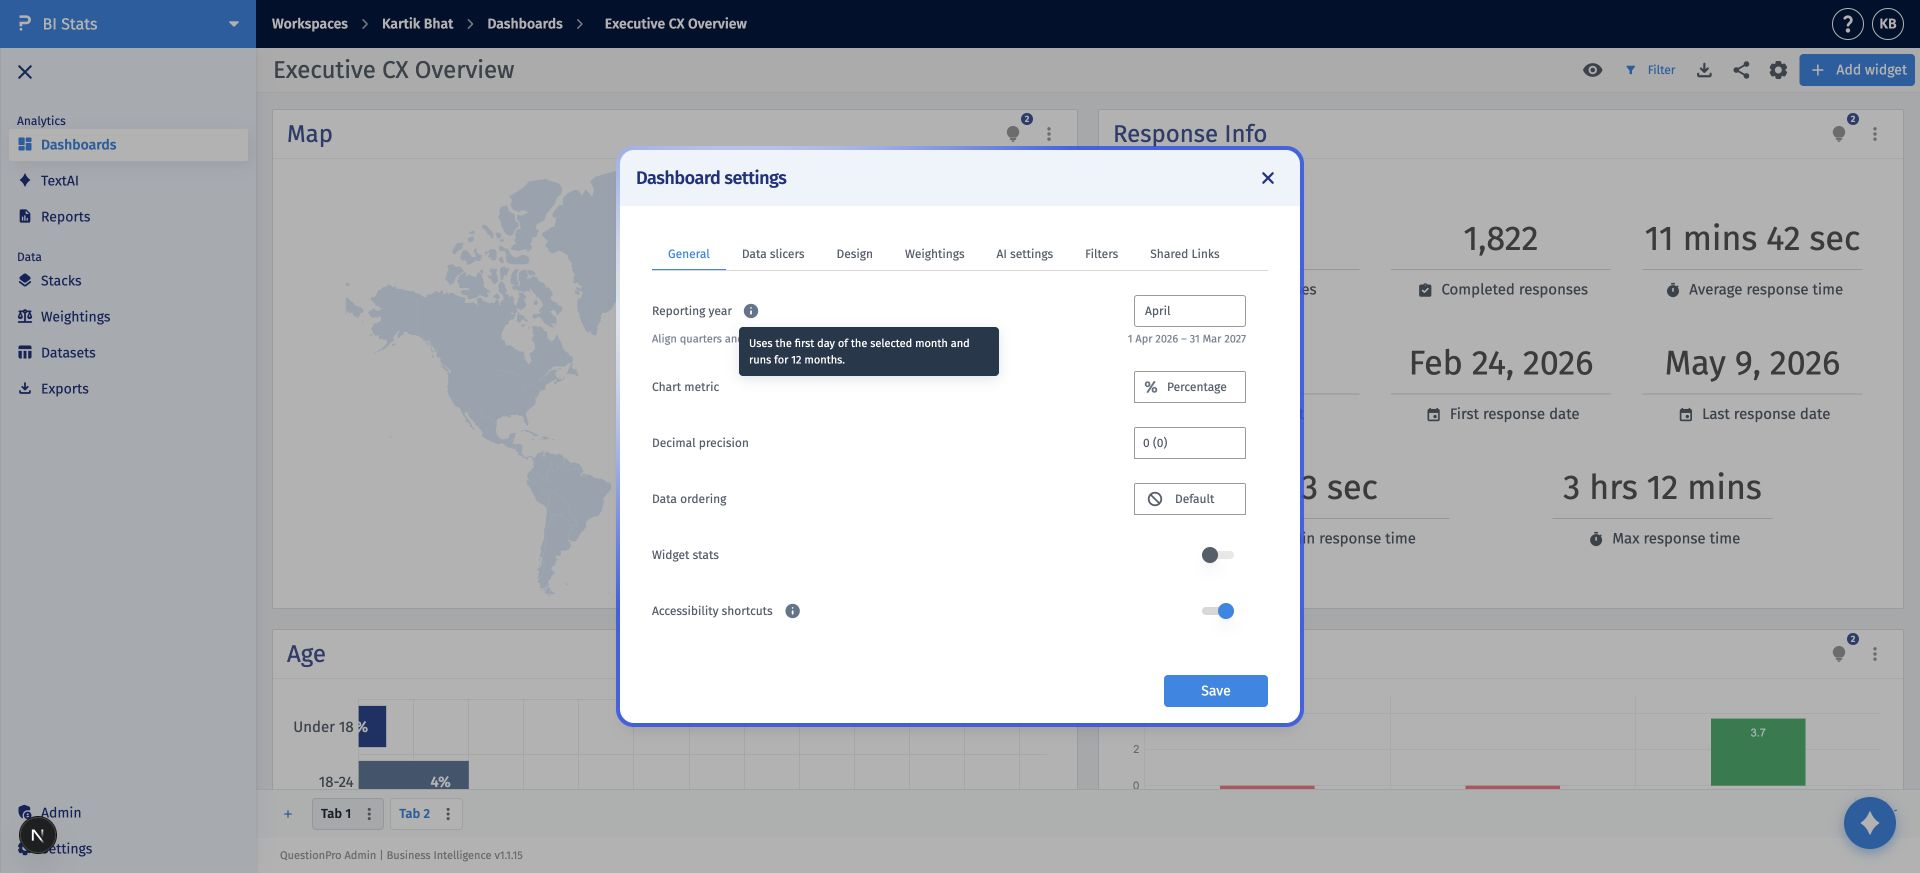
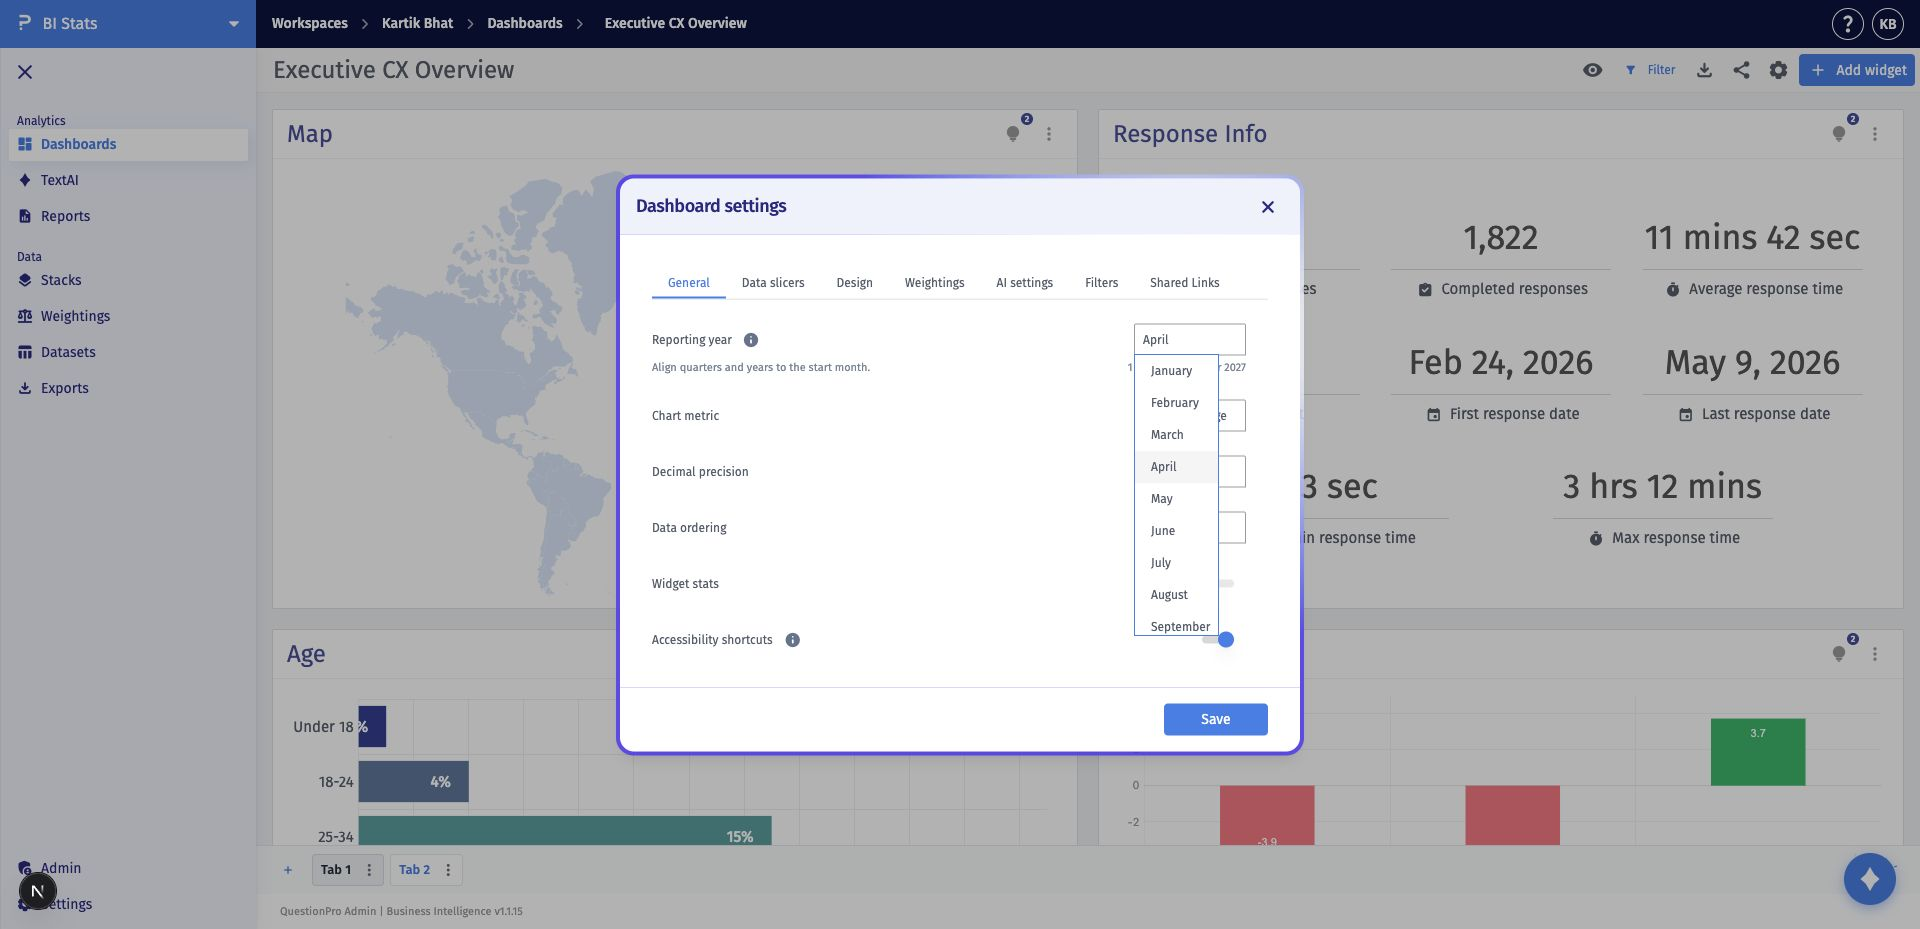
Use WickUI dropdown for reporting year month selection

diff --git a/src/components/dashboards/ReportingYearSettings.tsx b/src/components/dashboards/ReportingYearSettings.tsx
@@ -1,10 +1,22 @@
 'use client';
 import { useId } from 'react';
+import dynamic from 'next/dynamic';
 import { formatReportingDate } from '@/data/reporting-year';
 import { normalizeReportingYearSetting, reportingYearForMonth, type DashboardReportingYearSetting, type ReportingStartMonth } from '@/data/dashboard-reporting-year';
 import styles from './ReportingYearDateFilter.module.css';
 
-const MONTHS = ['January','February','March','April','May','June','July','August','September','October','November','December'];
+const WuSelect = dynamic(
+  () => import('@npm-questionpro/wick-ui-lib').then((module) => ({ default: module.WuSelect })),
+  { ssr: false }
+);
+
+interface ReportingMonthOption {
+  value: ReportingStartMonth;
+  label: string;
+}
+
+const MONTHS: ReportingMonthOption[] = ['January','February','March','April','May','June','July','August','September','October','November','December']
+  .map((label, index) => ({ value: (index + 1) as ReportingStartMonth, label }));
 
 export interface ReportingYearSettingsProps {
   reportingYearSetting?: DashboardReportingYearSetting;
@@ -13,6 +25,7 @@ export interface ReportingYearSettingsProps {
 export function ReportingYearSettings({ reportingYearSetting, onReportingYearChange }: ReportingYearSettingsProps) {
   const helpId = useId();
   const year = normalizeReportingYearSetting(reportingYearSetting).year!;
+  const selectedMonth = MONTHS.find(month => month.value === Number(year.startDate.slice(5,7)))!;
   return <section className={styles.settings} aria-label="Reporting year settings">
     <div className={styles.settingsHeading}>
       <div className={styles.monthHeading}><span>Reporting year</span>
@@ -24,10 +37,20 @@ export function ReportingYearSettings({ reportingYearSetting, onReportingYearCha
       <p className={styles.settingsDescription}>Align quarters and years to the start month.</p>
     </div>
     <div className={styles.monthControls}>
-      <select className={styles.monthSelect} aria-label="Reporting year start month" value={Number(year.startDate.slice(5,7))} onChange={event => {
-        const next = reportingYearForMonth(Number(event.target.value) as ReportingStartMonth, Number(year.startDate.slice(0,4)), year.id);
-        onReportingYearChange?.({ enabled:true, year:next });
-      }}>{MONTHS.map((month,index)=><option value={index+1} key={month}>{month}</option>)}</select>
+      <div className={styles.monthSelect}>
+        <WuSelect
+          aria-label="Reporting year start month"
+          data={MONTHS}
+          accessorKey={{ value: 'value', label: 'label' }}
+          value={selectedMonth}
+          variant="outlined"
+          onSelect={value => {
+            const month = value as ReportingMonthOption;
+            const next = reportingYearForMonth(month.value, Number(year.startDate.slice(0,4)), year.id);
+            onReportingYearChange?.({ enabled:true, year:next });
+          }}
+        />
+      </div>
       <p className={styles.settingsDescription}>{formatReportingDate(year.startDate)} – {formatReportingDate(year.endDate)}</p>
     </div>
   </section>;

diff --git a/src/components/dashboards/ReportingYearDateFilter.module.css b/src/components/dashboards/ReportingYearDateFilter.module.css
@@ -82,7 +82,6 @@
 .settingsSummary .resetButton:focus-visible { outline:2px solid #4688d5; outline-offset:4px; }
 .monthHeading { display:flex; align-items:center; gap:7px; min-height:32px; }
 .monthControls { justify-self:end; display:flex; flex-direction:column; align-items:flex-end; gap:4px; }
-.monthSelect { width:var(--settings-select-width, 151px); height:32px; border:1px solid #9b9b9b; border-radius:3px; padding:0 10px; appearance:none; background:white; color:inherit; font:inherit; cursor:pointer; }
-.monthSelect:hover { border-color:#4688d5; }
-.monthSelect:focus-visible { outline:2px solid #4688d5; outline-offset:2px; }
+.monthSelect { width:var(--settings-select-width, 151px); max-width:100%; }
+.monthSelect > div { width:100%; }
 .monthControls > p { white-space:nowrap; }
